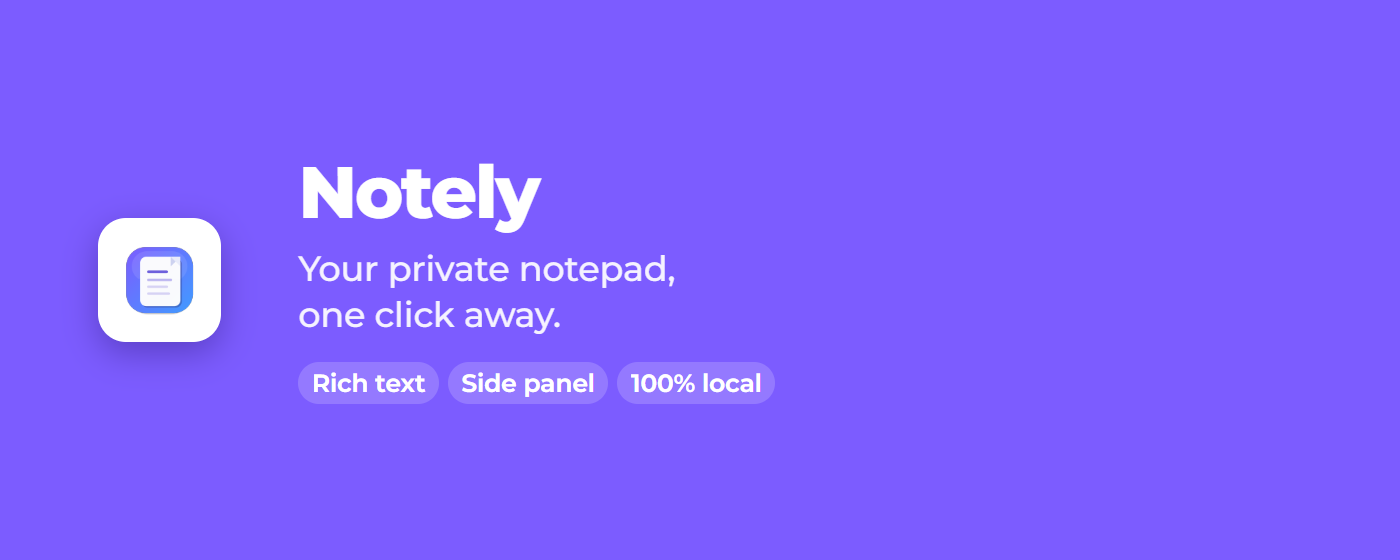
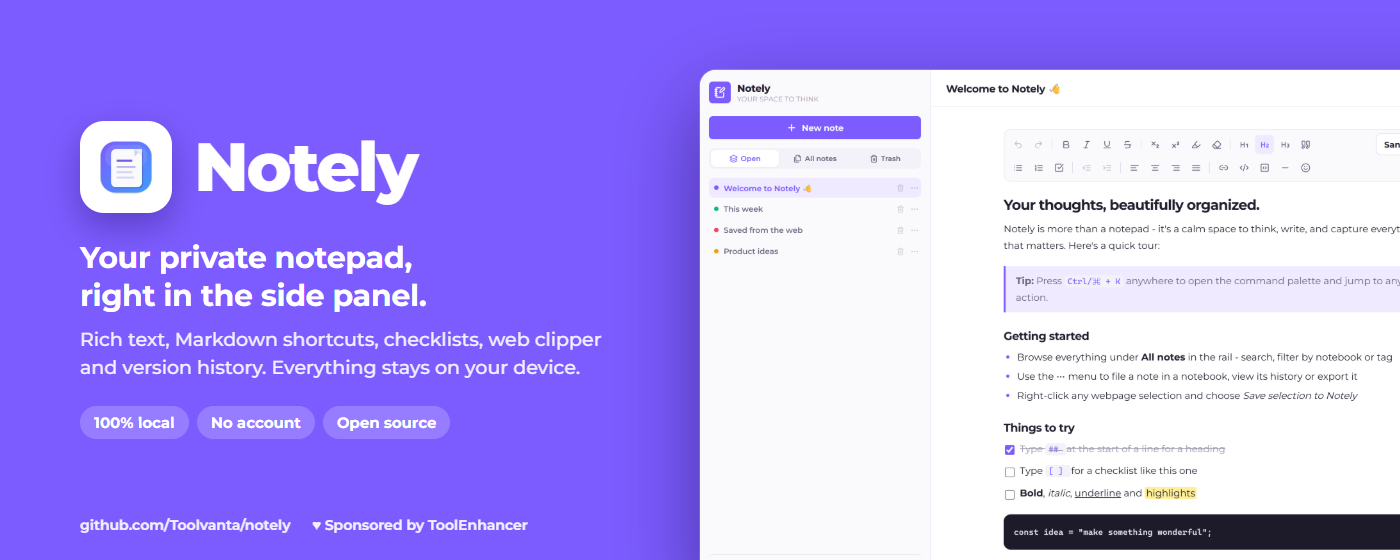
added assets

diff --git a/docs/store/src/screenshot.html b/docs/store/src/screenshot.html
@@ -1,0 +1,59 @@
+<!doctype html>
+<!--
+  Chrome Web Store screenshot frame (render at 1280×800).
+  Query params: ?img=<file in docs/screenshots>&title=<headline>&sub=<subline>&theme=light|dark
+-->
+<html>
+<head>
+<meta charset="utf-8" />
+<style>
+  @font-face { font-family: Montserrat; src: url('../../../public/fonts/montserrat-latin.woff2') format('woff2'); font-weight: 100 900; }
+  html, body { margin: 0; width: 1280px; height: 800px; overflow: hidden; }
+  body { font-family: Montserrat, sans-serif; background: #7c5cff; color: #fff; position: relative; }
+  body.dark { background: #17142a; }
+  .top { position: absolute; top: 30px; left: 56px; right: 56px; display: flex; align-items: center; justify-content: space-between; }
+  .brand { display: flex; align-items: center; gap: 12px; font-size: 24px; font-weight: 800; letter-spacing: -.02em; }
+  .brand img { width: 40px; height: 40px; border-radius: 10px; background: #fff; padding: 4px; box-sizing: border-box; }
+  .meta { display: flex; gap: 10px; }
+  .pill { display: flex; align-items: center; gap: 7px; font-size: 14px; font-weight: 650; padding: 7px 14px; border-radius: 99px; background: rgba(255, 255, 255, .16); white-space: nowrap; }
+  .pill svg { width: 15px; height: 15px; flex: 0 0 auto; }
+  .heart { color: #ffb3c4; }
+  .copy { position: absolute; top: 96px; left: 0; right: 0; text-align: center; padding: 0 80px; }
+  h1 { margin: 0; font-size: 46px; line-height: 1.1; font-weight: 800; letter-spacing: -.03em; }
+  p { margin: 12px 0 0; font-size: 20px; font-weight: 500; opacity: .9; }
+  .shot {
+    position: absolute; left: 50%; top: 236px; width: 1104px; transform: translateX(-50%);
+    border-radius: 16px 16px 0 0; overflow: hidden; background: #fff;
+    box-shadow: 0 24px 70px rgba(20, 8, 70, .45), 0 0 0 1px rgba(255, 255, 255, .25);
+  }
+  .shot img { display: block; width: 100%; }
+</style>
+</head>
+<body>
+  <div class="top">
+    <div class="brand"><img src="../../../public/icons/icon128.png" alt="" />Notely</div>
+    <div class="meta">
+      <span class="pill">
+        <svg viewBox="0 0 24 24" fill="none" stroke="currentColor" stroke-width="2.2" stroke-linecap="round" stroke-linejoin="round"><path d="m16 18 6-6-6-6"/><path d="m8 6-6 6 6 6"/></svg>
+        Open source · github.com/Toolvanta/notely
+      </span>
+      <span class="pill">
+        <svg class="heart" viewBox="0 0 24 24" fill="currentColor"><path d="M12 21s-7.5-4.6-9.6-9.1C.9 8.6 3 5 6.6 5c2 0 3.4 1.1 4.4 2.4C12 6.1 13.4 5 15.4 5 19 5 21.1 8.6 19.6 11.9 17.5 16.4 12 21 12 21z"/></svg>
+        Sponsored by ToolEnhancer
+      </span>
+    </div>
+  </div>
+  <div class="copy">
+    <h1 id="title"></h1>
+    <p id="sub"></p>
+  </div>
+  <div class="shot"><img id="img" alt="" /></div>
+  <script>
+    const q = new URLSearchParams(location.search)
+    document.getElementById('title').textContent = q.get('title') || ''
+    document.getElementById('sub').textContent = q.get('sub') || ''
+    document.getElementById('img').src = '../../screenshots/' + (q.get('img') || 'editor-light.png')
+    if (q.get('theme') === 'dark') document.body.classList.add('dark')
+  </script>
+</body>
+</html>

diff --git a/docs/store/src/promo-marquee.html b/docs/store/src/promo-marquee.html
@@ -1,0 +1,40 @@
+<!doctype html>
+<!-- Chrome Web Store marquee promo tile (render at 1400×560). -->
+<html>
+<head>
+<meta charset="utf-8" />
+<style>
+  @font-face { font-family: Montserrat; src: url('../../../public/fonts/montserrat-latin.woff2') format('woff2'); font-weight: 100 900; }
+  html, body { margin: 0; width: 1400px; height: 560px; overflow: hidden; }
+  body { font-family: Montserrat, sans-serif; color: #fff; background: #7c5cff; position: relative; }
+  .text { position: absolute; left: 80px; top: 0; bottom: 0; width: 560px; display: flex; flex-direction: column; justify-content: center; }
+  .row { display: flex; align-items: center; gap: 22px; }
+  .mark { width: 92px; height: 92px; border-radius: 24px; background: #fff; display: grid; place-items: center; box-shadow: 0 14px 34px rgba(30, 10, 90, .35); flex: 0 0 auto; }
+  .mark img { width: 68px; height: 68px; }
+  h1 { margin: 0; font-size: 68px; font-weight: 800; letter-spacing: -.035em; line-height: 1; }
+  .tag { margin: 26px 0 0; font-size: 30px; font-weight: 700; line-height: 1.25; letter-spacing: -.01em; }
+  .sub { margin: 12px 0 0; font-size: 19px; font-weight: 500; line-height: 1.45; opacity: .9; }
+  .chips { display: flex; gap: 8px; margin-top: 24px; flex-wrap: wrap; }
+  .chips span { font-size: 15px; font-weight: 700; padding: 7px 14px; border-radius: 99px; background: rgba(255, 255, 255, .2); }
+  .foot { position: absolute; left: 80px; bottom: 26px; display: flex; gap: 22px; font-size: 14px; font-weight: 650; opacity: .9; }
+  .shot {
+    position: absolute; left: 700px; top: 70px; width: 820px; border-radius: 16px; overflow: hidden; background: #fff;
+    box-shadow: 0 30px 80px rgba(20, 8, 70, .5), 0 0 0 1px rgba(255, 255, 255, .25);
+  }
+  .shot img { display: block; width: 100%; }
+</style>
+</head>
+<body>
+  <div class="text">
+    <div class="row">
+      <div class="mark"><img src="../../../public/icons/icon128.png" alt="" /></div>
+      <h1>Notely</h1>
+    </div>
+    <div class="tag">Your private notepad,<br />right in the side panel.</div>
+    <div class="sub">Rich text, Markdown shortcuts, checklists, web clipper and version history. Everything stays on your device.</div>
+    <div class="chips"><span>100% local</span><span>No account</span><span>Open source</span></div>
+  </div>
+  <div class="foot"><span>github.com/Toolvanta/notely</span><span>♥ Sponsored by ToolEnhancer</span></div>
+  <div class="shot"><img src="../../screenshots/editor-light.png" alt="" /></div>
+</body>
+</html>

diff --git a/docs/store/src/promo-small.html b/docs/store/src/promo-small.html
@@ -1,0 +1,31 @@
+<!doctype html>
+<!-- Chrome Web Store small promo tile (render at 440×280). Keep text large: it's shown small. -->
+<html>
+<head>
+<meta charset="utf-8" />
+<style>
+  @font-face { font-family: Montserrat; src: url('../../../public/fonts/montserrat-latin.woff2') format('woff2'); font-weight: 100 900; }
+  html, body { margin: 0; width: 440px; height: 280px; overflow: hidden; }
+  body { font-family: Montserrat, sans-serif; color: #fff; background: #7c5cff; display: flex; flex-direction: column; justify-content: center; padding: 0 34px; box-sizing: border-box; position: relative; }
+  .row { display: flex; align-items: center; gap: 18px; }
+  .mark { width: 74px; height: 74px; border-radius: 18px; background: #fff; display: grid; place-items: center; box-shadow: 0 10px 26px rgba(30, 10, 90, .35); flex: 0 0 auto; }
+  .mark img { width: 54px; height: 54px; }
+  h1 { margin: 0; font-size: 40px; font-weight: 800; letter-spacing: -.03em; line-height: 1; }
+  p { margin: 7px 0 0; font-size: 16px; font-weight: 600; line-height: 1.3; opacity: .95; }
+  .chips { display: flex; gap: 6px; margin-top: 20px; }
+  .chips span { font-size: 12.5px; font-weight: 700; padding: 5px 10px; border-radius: 99px; background: rgba(255, 255, 255, .2); white-space: nowrap; }
+  .foot { position: absolute; left: 34px; bottom: 16px; font-size: 11px; font-weight: 600; opacity: .8; }
+</style>
+</head>
+<body>
+  <div class="row">
+    <div class="mark"><img src="../../../public/icons/icon128.png" alt="" /></div>
+    <div>
+      <h1>Notely</h1>
+      <p>Private notepad in your<br />side panel</p>
+    </div>
+  </div>
+  <div class="chips"><span>Rich text</span><span>Web clipper</span><span>Open source</span></div>
+  <div class="foot">♥ Sponsored by ToolEnhancer</div>
+</body>
+</html>

diff --git a/docs/store/src/store-icon.html b/docs/store/src/store-icon.html
@@ -1,0 +1,12 @@
+<!doctype html>
+<!-- Chrome Web Store icon (render at 128×128 with a transparent background): 96×96 artwork, 16px padding. -->
+<html>
+<head>
+<meta charset="utf-8" />
+<style>
+  html, body { margin: 0; width: 128px; height: 128px; background: transparent; overflow: hidden; }
+  img { position: absolute; left: 16px; top: 16px; width: 96px; height: 96px; }
+</style>
+</head>
+<body><img src="../../../public/icons/icon128.png" alt="" /></body>
+</html>

diff --git a/docs/store/LISTING.md b/docs/store/LISTING.md
@@ -1,0 +1,108 @@
+# Chrome Web Store listing - Notely
+
+Copy-paste text and assets for the Developer Dashboard. All images in this folder are already at the exact sizes the store requires.
+
+---
+
+## Title (item name)
+
+```
+Notely - Rich Text Notepad, Side Panel Notes & Web Clipper
+```
+
+58 / 75 characters. This comes from `"name"` in `public/manifest.json`, so the store shows it automatically.
+
+## Summary (short description)
+
+```
+Private rich-text notepad for Chrome: side panel notes, Markdown shortcuts, checklists, web clipper and version history. 100% local.
+```
+
+132 / 132 characters. This comes from `"description"` in `public/manifest.json`.
+
+## Category
+
+**Productivity** → *Tools* (or *Workflow & Planning*)
+
+## Detailed description
+
+```
+Notely is a fast, private notepad that lives right in Chrome. Take notes in the toolbar popup, keep them open in the side panel while you browse, or write in a full tab. Every note stays in sync, and everything is stored locally on your device.
+
+★ WRITE BEAUTIFUL NOTES
+• Rich-text editor with headings, bold, italic, underline, highlights, quotes, code blocks, links and emoji
+• Markdown shortcuts as you type: "# " for a heading, "- " for a list, "[ ] " for a checklist, "> " for a quote, ``` for code
+• To-do lists and checklists with nesting (Tab / Shift+Tab)
+• Reliable undo and redo, and clean copy-paste from any website
+• Light and dark themes, six accent colors, Sans / Serif / Mono fonts
+
+★ NOTES IN THE SIDE PANEL
+• Keep your notepad open next to any website while you research, shop, study or work
+• Open it instantly with Alt+Shift+O, or start a quick note with Alt+Shift+Q
+
+★ WEB CLIPPER
+• Right-click to save selected text, a whole page or a link to Notely
+• Press Alt+Shift+S to clip the text you selected
+• Every clip keeps its source link, so you can always find where it came from
+• Optional "Save to Notely" button that appears when you select text (off by default, can be hidden per site)
+
+★ ORGANIZE AND FIND ANYTHING
+• Search all your notes instantly
+• Notebooks, tags, pinning and archive
+• Command palette (Ctrl/Cmd+K) for every note and action
+• Trash with undo, so nothing is ever deleted by accident
+
+★ VERSION HISTORY
+• Automatic snapshots while you write
+• Preview and restore any earlier version of a note
+
+★ EXPORT AND BACKUP
+• Export notes as Markdown, HTML or plain text, or copy as Markdown
+• Full JSON backup and restore
+
+★ PRIVATE BY DESIGN
+• 100% local: notes are stored on your device with Chrome storage
+• No account, no sign-up, no servers, no ads, no tracking
+• No access to websites unless you turn on the optional selection button
+• Open source, so you can read every line of code
+
+Great for: quick notes, to-do lists, meeting notes, research, study notes, saving quotes and links, drafting emails and journaling.
+
+★ OPEN SOURCE
+Source code, issues and feature requests:
+https://github.com/Toolvanta/notely
+
+★ SPONSORED BY TOOLENHANCER
+Notely is proudly sponsored by ToolEnhancer:
+http://toolenhancer.com/
+
+Made by Shoaib Arif - https://shoaibarif.vercel.app/
+```
+
+> Keep it honest: the Web Store rejects listings with keyword stuffing or claims the extension doesn't deliver. Every line above describes a real feature.
+
+## Graphic assets
+
+| Asset | Required size | File |
+| --- | --- | --- |
+| Store icon | 128 × 128 PNG (96 × 96 artwork with transparent padding) | `store-icon-128.png` |
+| Screenshot 1 | 1280 × 800 | `screenshots/1-write.png` |
+| Screenshot 2 | 1280 × 800 | `screenshots/2-find.png` |
+| Screenshot 3 | 1280 × 800 | `screenshots/3-organize.png` |
+| Screenshot 4 | 1280 × 800 | `screenshots/4-history.png` |
+| Screenshot 5 | 1280 × 800 | `screenshots/5-private.png` |
+| Small promo tile | 440 × 280 PNG | `promo-small-440x280.png` |
+| Marquee promo tile | 1400 × 560 PNG | `promo-marquee-1400x560.png` |
+
+Upload the screenshots in numerical order; the first one is the main image on the listing.
+
+The HTML sources for every image are in `src/`. Edit them and re-render if the design or text changes.
+
+## Links
+
+| Field | Value |
+| --- | --- |
+| Homepage URL | `https://github.com/Toolvanta/notely` |
+| Support URL | `https://github.com/Toolvanta/notely/issues` |
+| Privacy policy | `https://github.com/Toolvanta/notely/blob/master/PRIVACY.md` |
+| Sponsor | `http://toolenhancer.com/` |

diff --git a/docs/PUBLISHING.md b/docs/PUBLISHING.md
@@ -42,49 +42,19 @@ In the dashboard, click **New item** and upload `release/notely-<version>.zip`. 
 
 | Field | Value |
 | --- | --- |
-| **Name** | Notely - Advanced Notepad *(from the manifest)* |
-| **Summary** | A beautiful, feature-rich notepad for your browser. Write, organize, capture and find your notes instantly. *(from the manifest; max 132 characters)* |
+| **Name** | Notely - Rich Text Notepad, Side Panel Notes & Web Clipper *(from the manifest; 58/75 characters)* |
+| **Summary** | Private rich-text notepad for Chrome: side panel notes, Markdown shortcuts, checklists, web clipper and version history. 100% local. *(from the manifest; 132/132 characters)* |
 | **Category** | Productivity → Tools *(or Workflow & Planning)* |
 | **Language** | English |
-| **Store icon** | `public/icons/icon128.png` (128×128) |
-| **Screenshots** | Upload 1–5 from `docs/store/screenshots/` (all exactly 1280×800). Suggested order: `editor-light`, `library`, `note-menu`, `version-history`, `editor-dark` |
+| **Store icon** | `docs/store/store-icon-128.png` (128×128, 96×96 artwork with transparent padding) |
+| **Screenshots** | `docs/store/screenshots/1-write.png` … `5-private.png` (all 1280×800), uploaded in order |
 | **Small promo tile** | `docs/store/promo-small-440x280.png` |
-| **Marquee promo tile** *(optional)* | `docs/store/promo-marquee-1400x560.png` |
+| **Marquee promo tile** | `docs/store/promo-marquee-1400x560.png` |
 | **Official URL** | Your verified site, if you did step 1.5 |
 | **Homepage URL** | `https://github.com/Toolvanta/notely` |
 | **Support URL** | `https://github.com/Toolvanta/notely/issues` |
 
-**Description** (paste and edit as you like):
-
-```
-Notely is a fast, private notepad that lives in your browser. Open it from the toolbar, keep it in Chrome's side panel, or use it in a full tab. Your notes stay in sync everywhere.
-
-WRITE
-• Rich-text editor: headings, bold/italic/underline, highlights, quotes, code blocks, links and emoji
-• Markdown shortcuts as you type: "# " heading, "- " list, "[ ] " checklist, "> " quote, ``` code
-• Checklists with nesting, reliable undo/redo, and clean pasting from any website
-
-ORGANIZE
-• Search all notes, filter by notebook or tag, pin and archive
-• Version history: preview and restore earlier versions of any note
-• Trash with undo: nothing is deleted by accident
-• Command palette (Ctrl/⌘+K) for every action
-
-CAPTURE
-• Right-click → Save selection, page or link to Notely
-• Alt+Shift+S saves the selected text; Alt+Shift+Q starts a quick note
-• Optional "Save to Notely" button on text selection, which you can hide per site
-
-EXPORT
-• Markdown, HTML or plain text, or copy as Markdown
-• Full JSON backup and restore
-
-PRIVATE BY DESIGN
-• Everything is stored locally on your device. No account, no servers, no tracking
-• No access to websites unless you turn on the optional selection button
-
-Open source: https://github.com/Toolvanta/notely
-```
+**Description:** copy the SEO-friendly description from **[docs/store/LISTING.md](store/LISTING.md)**. It includes the GitHub repository and the ToolEnhancer sponsorship. That file also lists every graphic asset with its required size.
 
 ### Privacy practices
 
@@ -154,5 +124,5 @@ After it's live, add the store link to the README's **Install** section.
 | Unclear single purpose / keyword stuffing | One clear purpose; plain description ✔ |
 | Missing privacy policy when handling user data | `PRIVACY.md` ✔ |
 | Remote code / `eval` | None; strict CSP ✔ |
-| Screenshots of the wrong size | 1280×800 in `docs/store/screenshots/` ✔ |
+| Screenshots of the wrong size | 1280×800 in `docs/store/screenshots/`, verified ✔ |
 | Misleading branding or name | Name and icon are original ✔ |
